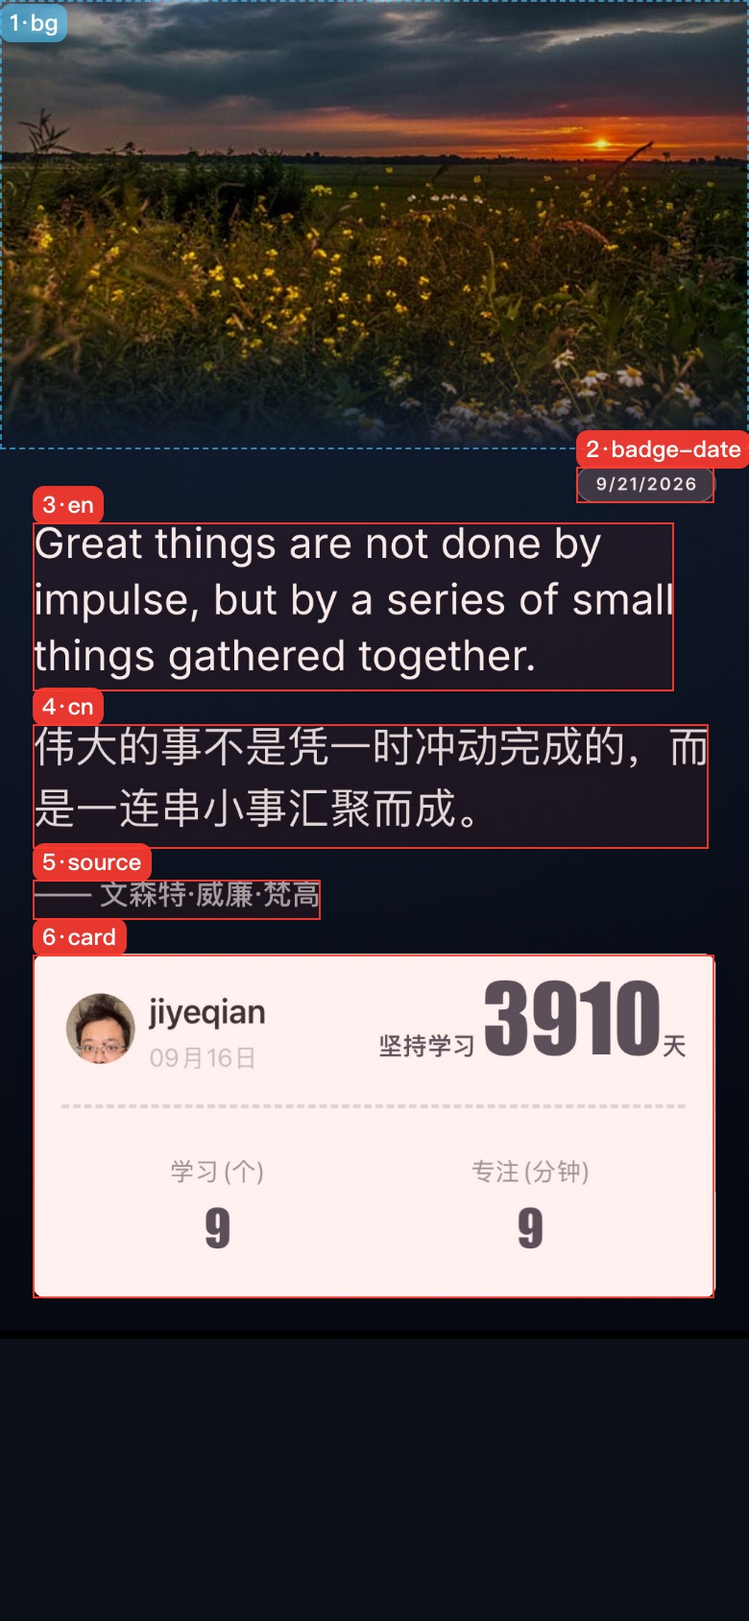
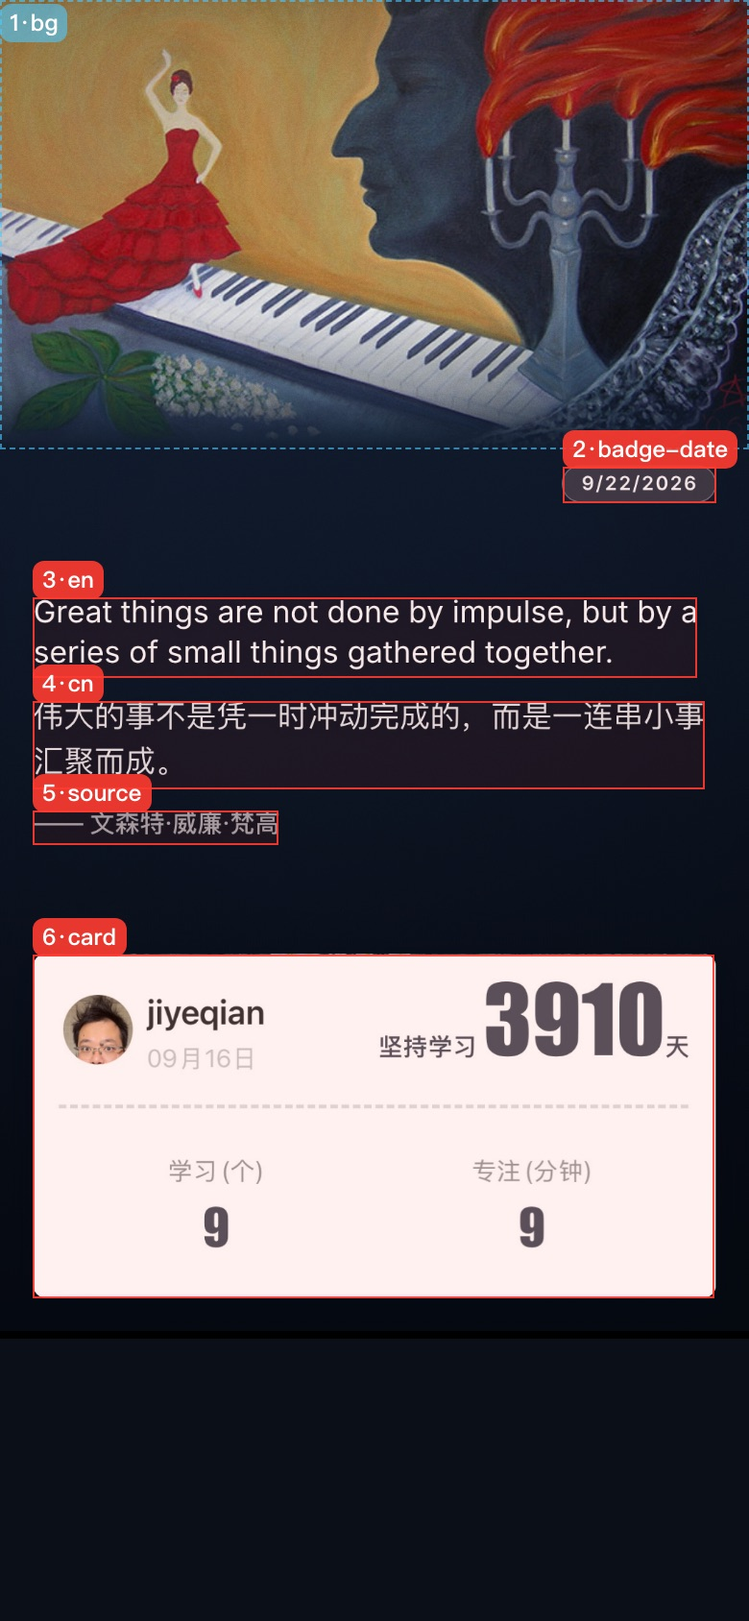
feat(ui): 字号基准定为 44/44/36/28，日期胶囊放大上限提到 3 倍
用户要求：3/4 区以 44 为设计基准固定下来（进入应用即此大小，除非溢出活动区才缩小）、
其余区按比例给出定值、2 区的放大倍率太低要「提高 1 倍」。三处澄清后定为：
3/4 区 44、5 区 36、2 区 28（直接给定值，不再按比例推）；2 区上限 3 倍（其余区仍 1.6）；
胶囊放大后整体变大、句子区跟着下移。

实现：

- 基准字号 SZ_EN/SZ_CN 55.2 → 44、SZ_SOURCE 38.1 → 36、SZ_DATE 27.5 → 28。
  保底语义不动：base = 1 才是设计基准，只有整块装不下活动区时才等比缩小（用户再次强调
  「除非溢出区域才考虑缩小字体」）。实测今天的句子在新基准下 base = 1，正是「进入即是 44」。
- **放大上限从「全体共用一个常量」改成按区不同**：新增 ZOOM_MAX_BY = { 'badge-date': 3 }
  与 zoomMaxOf(id)，把钳制与「已到最大」提示都收敛过去。原来 applyZoom 里两处直接引
  ZOOM_MAX —— 不改的话日期放到 1.6 就提示「已放到最大」，等于功能没开。
  顺手把 applyZoom 提到模块作用域（它本来就只碰模块状态），这样 __ds.setZoom 能复用
  **同一条钳制路径**，回归不必在几百像素高的测试视口里反复拖动去累积倍率。
- 日期胶囊**整体随缩放等比变大**：h 由固定 DATE_H 改成 DATE_H × dateScale（宽 / 字号 /
  字距 / 内边距 / 圆角本来就是比例式，绘制侧一字未改）。胶囊变高会把 chrome 推大 →
  活动区下移并变矮，极端时句子被保底略缩 —— 这是用户在「胶囊压句子」与「句子区下移」
  之间明确选的后者：胶囊永不压句子。
  实测（390×844）：2 区 ×3 时胶囊 [811,672,221,52] → [368,606,664,156]，活动区
  {top:752,h:576} → {790,538}（正好落在画布 28% 下限），顶图 648 → 582，句子 4 行仍装得下、
  base 仍为 1；默认态 band 与顶图完全没变（752/576、648），只有字号变了。

回归（136 条断言全绿、无 console error，parse-check 50 passed）：

- 字号断言按新基准逐一核对（en/cn 44、source 36、日期 28），短句 base = 1 且正好等于基准
- 新增：上限按区不同（2 区 3 / 3/4/5 区 1.6）；放到超上限被截在 3 且不牵动其它区；
  到上限提示「已放到最大」；胶囊宽与高都长了 3 倍（高度不再固定）；活动区随胶囊下移并变矮；
  2 区放大时短句字号一点不动；3/4/5 放到超上限仍截在 1.6（2 区仍是 3，证明两组互不干扰）；
  极端（2 区 ×3 + 长句）句子保底略缩但仍不越过信息卡
- **改写一条旧口径的假绿断言**：原「删掉出处后字号自动放大」只在当天句子恰好触发保底时
  才成立（本轮改成固定 44 后 base = 1，它立刻暴露为失败）。按现行语义改成
  「base 为 1 时字号不动，否则只可能回升、绝不变小」，并顺带说明 2026-09-22 起不再自适应放大。
  「2 区独立」那条也一并改成「未触发保底时句子字号不动 + 胶囊变大时活动区确实下移」。
[…]

diff --git a/app/ui-check.js b/app/ui-check.js
@@ -17,8 +17,10 @@
         （窗口内清晰、窗外是这张图压暗 62% 的其余部分、窗口是圆角矩形）；
         没有任何描边 / 虚线（源码里不再有 drawEditFrame）；点窗口 = 换同一张、点窗外 = 完成；
         退出后弹层收起、海报没有位移
-    12) 文字字号：进入即按固定设计基准显示（短句 base=1、字号正好 55.2/38.1/27.5，不再自适应放大）；
+    12) 文字字号：进入即按固定设计基准显示（短句 base=1、字号正好 44/44/36/28，不再自适应放大）；
         2/3/4/5 各区一份交互变换，滑句子区 3/4/5 联动、滑日期只改日期；超长句整块等比缩小保底
+    13) 缩放上限按区不同：2 区（日期）3 倍、3/4/5 区 1.6 倍；胶囊（含高度）随字号等比变大、
+        活动区随之下移（短句字号不受影响）；到上限提示「已放到最大」
 
    跑法：先 node server.js（8787），再
      NODE_PATH=<node workspace>/node_modules node app/ui-check.js  */
@@ -406,12 +408,18 @@ function ok(label, cond, extra) {
   ok('隐藏后信息卡位置不变（贴底）', JSON.stringify(box(d, 'card')) === JSON.stringify(cb));
   await shot(p, 's2-hide-date');
 
-  /* 删掉一个元素后，剩下的内容自动放大补满中部区域 */
+  /* 删掉一个元素后**不会**自动放大填满中部区域（2026-09-22 起不再自适应放大）：
+     base 已经是 1 时字号纹丝不动；只有当天句子本来就被保底缩小时，空出的高度才让 base 回升。
+     旧断言写的是「字号自动放大」—— 那是老口径，且只在当天恰好触发保底时才碰巧成立。 */
   const fontBefore = d.items.find((it) => it.id === 'en').font;
+  const baseBefore = d.text.base;
   await tap(p, 'source', 0, true);
   d = await info(p);
   const fontAfter = d.items.find((it) => it.id === 'en').font;
-  ok('删掉出处后字号自动放大', fontAfter > fontBefore, `${fontBefore} → ${fontAfter}`);
+  ok('删掉出处后不再「自动放大填满」：base 为 1 时字号不动，否则只可能回升（绝不变小）',
+    fontAfter >= fontBefore - 0.01 && (baseBefore < 1 || Math.abs(fontAfter - fontBefore) < 0.01) &&
+    fontAfter <= 44 + 0.6,
+    `${fontBefore} → ${fontAfter}｜base ${baseBefore} → ${d.text.base}`);
 
   for (const id of ['en', 'cn']) {
     await tap(p, id, 0, true);
@@ -433,13 +441,13 @@ function ok(label, cond, extra) {
   const fontOf = (x) => fontAt(x, 'en');
   const f0 = fontOf(d);
 
-  /* 设计基准字号（2026-09-22 由用户定）：en/cn 55.2、source 38.1、日期 27.5；
+  /* 设计基准字号（2026-09-22 第二次由用户定值）：en/cn 44、source 36、日期 28；
      实际字号 = 设计基准 × 保底 base × 该区交互值 —— 今天的长句会被保底缩小，比例仍精确 */
   ok('字号 = 设计基准 × 保底 base（四个区逐一核对）',
-    Math.abs(fontAt(d, 'en') - 55.2 * d.text.base) < 0.6 &&
-    Math.abs(fontAt(d, 'cn') - 55.2 * d.text.base) < 0.6 &&
-    Math.abs(fontAt(d, 'source') - 38.1 * d.text.base) < 0.6 &&
-    Math.abs(fontAt(d, 'badge-date') - 27.5 * d.text.fx['badge-date']) < 0.6,
+    Math.abs(fontAt(d, 'en') - 44 * d.text.base) < 0.6 &&
+    Math.abs(fontAt(d, 'cn') - 44 * d.text.base) < 0.6 &&
+    Math.abs(fontAt(d, 'source') - 36 * d.text.base) < 0.6 &&
+    Math.abs(fontAt(d, 'badge-date') - 28 * d.text.fx['badge-date']) < 0.6,
     `en ${fontAt(d, 'en')}｜cn ${fontAt(d, 'cn')}｜source ${fontAt(d, 'source')}｜日期 ${fontAt(d, 'badge-date')}｜base ${d.text.base}`);
   ok('每个文字区各有一份交互变换状态（架构：以后加移动就在同一对象里补 dx/dy）',
     ['badge-date', 'en', 'cn', 'source'].every((k) => d.text.fx[k] === 1),
@@ -447,10 +455,11 @@ function ok(label, cond, extra) {
 
   /* 短句：base 回到 1，字号正好等于设计基准（与线上当天的句子无关，确定可测） */
   const shortD = await withContent(p, { en: 'Hi.', cn: '你好。', source: '—— 测试' });
-  ok('短句时不再自动放大（base = 1、字号就是设计基准，日期大一号）',
-    shortD.text.base === 1 && Math.abs(fontAt(shortD, 'en') - 55.2) < 0.6 &&
-    Math.abs(fontAt(shortD, 'source') - 38.1) < 0.6 && Math.abs(fontAt(shortD, 'badge-date') - 27.5) < 0.6,
-    `base=${shortD.text.base}｜en ${fontAt(shortD, 'en')}｜source ${fontAt(shortD, 'source')}｜日期 ${fontAt(shortD, 'badge-date')}`);
+  ok('短句时不再自动放大（base = 1、字号就是设计基准 44 / 44 / 36 / 28）',
+    shortD.text.base === 1 && Math.abs(fontAt(shortD, 'en') - 44) < 0.6 &&
+    Math.abs(fontAt(shortD, 'cn') - 44) < 0.6 &&
+    Math.abs(fontAt(shortD, 'source') - 36) < 0.6 && Math.abs(fontAt(shortD, 'badge-date') - 28) < 0.6,
+    `base=${shortD.text.base}｜en ${fontAt(shortD, 'en')}｜cn ${fontAt(shortD, 'cn')}｜source ${fontAt(shortD, 'source')}｜日期 ${fontAt(shortD, 'badge-date')}`);
   await p.reload({ waitUntil: 'load' });
   await p.waitForFunction(() => window.__ds && window.__ds.state.layout);
   d = await info(p);
@@ -480,6 +489,68 @@ function ok(label, cond, extra) {
     fontAt(d, 'badge-date') > dateF1 && d.text.fx['badge-date'] > 1 &&
     fontAt(d, 'en') === senF.en && fontAt(d, 'cn') === senF.cn && fontAt(d, 'source') === senF.src,
     `日期 ${dateF1} → ${fontAt(d, 'badge-date')}｜en ${senF.en} → ${fontAt(d, 'en')}`);
+
+  /* ---------------- 缩放上限按区不同：2 区 3 倍、3/4/5 区 1.6 倍（2026-09-22） ----------------
+     下面用 `__ds.setZoom` 驱动：它调用的就是手势那条 applyZoom（同一条钳制路径），
+     只是省掉「在几百像素高的测试视口里反复拖动去累积倍率」——真手势一次最多 +0.2~0.3 倍。 */
+  await p.reload({ waitUntil: 'load' });
+  await p.waitForFunction(() => window.__ds && window.__ds.state.layout);
+  const caps = await p.evaluate(() => ({
+    date: window.__ds.zoomMax('badge-date'), en: window.__ds.zoomMax('en'), source: window.__ds.zoomMax('source'),
+  }));
+  ok('缩放上限按区不同：2 区 3 倍、3/4/5 区 1.6 倍', caps.date === 3 && caps.en === 1.6 && caps.source === 1.6,
+    JSON.stringify(caps));
+
+  /* 换成短句，让保底倍率恒为 1 —— 这样「句子字号动没动」才是干净的信号 */
+  const short2 = await withContent(p, { en: 'Hi.', cn: '你好。', source: '—— 测试' });
+  const b0 = {
+    box: box(short2, 'badge-date'),
+    band: Object.assign({}, short2.text.band),
+    font: { en: fontAt(short2, 'en'), cn: fontAt(short2, 'cn'), src: fontAt(short2, 'source') },
+  };
+  await p.evaluate(() => window.__ds.setZoom('badge-date', 9));       /* 远超上限 → 应被截在 3 */
+  await p.waitForTimeout(460);
+  const d3 = await info(p);
+  const b3 = { box: box(d3, 'badge-date'), band: Object.assign({}, d3.text.band) };
+  ok('2 区放到超上限被截在 3 倍（且不牵动 3/4/5 区）',
+    d3.text.fx['badge-date'] === 3 && d3.text.fx.en === 1 && d3.text.fx.cn === 1 && d3.text.fx.source === 1,
+    `fx ${JSON.stringify(d3.text.fx)}`);
+  ok('2 区到上限时提示「已放到最大」',
+    await p.evaluate(() => document.getElementById('toast').textContent) === '字号已放到最大',
+    await p.evaluate(() => document.getElementById('toast').textContent));
+  ok('胶囊整体等比变大：宽与高都长了 3 倍（高度不再固定）',
+    Math.abs(b3.box[3] / b0.box[3] - 3) < 0.06 && Math.abs(b3.box[2] / b0.box[2] - 3) < 0.06,
+    `胶囊 [${b0.box.map(Math.round)}] → [${b3.box.map(Math.round)}]`);
+  ok('活动区随胶囊下移并变矮（句子在更矮的区域里重新居中）',
+    b3.band.top > b0.band.top + 20 && b3.band.h < b0.band.h - 20,
+    `活动区 ${JSON.stringify(b0.band)} → ${JSON.stringify(b3.band)}`);
+  ok('2 区放大时短句字号一点不动（base 仍为 1，只有位置重新居中）',
+    d3.text.base === 1 && fontAt(d3, 'en') === b0.font.en &&
+    fontAt(d3, 'cn') === b0.font.cn && fontAt(d3, 'source') === b0.font.src,
+    `base ${d3.text.base}｜en ${b0.font.en} → ${fontAt(d3, 'en')}`);
+  await shot(p, 's14-date-zoom-3x');
+
+  /* 极端：2 区 ×3 的同时塞长句 → 活动区被压到下限，句子被保底略微缩小（用户已确认接受） */
+  const extreme = await withContent(p, {
+    en: 'This is a fairly long sentence used to check the fallback shrink when the date badge is huge.'.repeat(2),
+    cn: '这是一句用来验证「日期放很大时句子被保底缩小」的较长中文句子。'.repeat(2),
+  });
+  ok('极端情况：2 区 ×3 + 长句 → 句子保底略缩、活动区变矮，但仍不越过信息卡',
+    extreme.text.base < 1 && extreme.text.band.h < b0.band.h - 20 &&
+    box(extreme, 'source')[1] + box(extreme, 'source')[3] <= box(extreme, 'card')[1],
+    `base ${extreme.text.base}｜活动区 h ${Math.round(extreme.text.band.h)}（默认 ${Math.round(b0.band.h)}）`);
+
+  /* 3/4/5 仍被 1.6 截住（同一时刻 2 区仍是 3 倍，证明两组互不干扰） */
+  await p.evaluate(() => window.__ds.setZoom('en', 9));
+  await p.waitForTimeout(460);
+  const enCap = await info(p);
+  ok('3/4/5 放到超上限被截在 1.6 倍（2 区不受影响）',
+    enCap.text.fx.en === 1.6 && enCap.text.fx.cn === 1.6 && enCap.text.fx.source === 1.6 &&
+    enCap.text.fx['badge-date'] === 3,
+    JSON.stringify(enCap.text.fx));
+  await p.reload({ waitUntil: 'load' });
+  await p.waitForFunction(() => window.__ds && window.__ds.state.layout);
+  d = await info(p);
 
   /* 缩到最小也不能压到卡片 */
   await dragY(p, 'en', 900);

diff --git a/docs/标注通道-使用手册.md b/docs/标注通道-使用手册.md
@@ -100,7 +100,8 @@ NODE_PATH=~/.workbuddy/binaries/node/workspace/node_modules \
 
 **① 标准版（手机视口）** —— 手册主图。标准版只有 6 个可标注元素，自上而下编号 1–6：
 `bg / badge-date / en / cn / source / card`。顶部图片**按宽度铺满、超出 648px 的部分裁掉**；
-`en / cn / source` 作为一个整体在中部区域里**垂直居中、并自动放大到几乎占满**：
+`en / cn / source` 作为一个整体在中部区域里**垂直居中**，字号按**固定设计基准**显示
+（不再自动放大铺满，只有整块装不下时才等比缩小保底）：
 
 <img src="annot-guide.jpg" width="380" alt="标准版编号标注图">
 
@@ -129,7 +130,7 @@ NODE_PATH=~/.workbuddy/binaries/node/workspace/node_modules \
               "adaptive": false, "safe": { "top": 0, "bottom": 0 } },
   "items": [
     { "i": 4, "id": "cn", "label": "中文句",
-      "box": [48, 1044, 935, 161.2], "font": 55.2,
+      "box": [48, 1011, 968, 129.4], "font": 44,
       "color": "rgba(255,255,255,0.88)", "text": "伟大的事不是凭一时冲动完成的…", "kind": "item" }
   ],
   "gaps": [
@@ -162,13 +163,13 @@ NODE_PATH=~/.workbuddy/binaries/node/workspace/node_modules \
 
 | 字段 | 含义 |
 | --- | --- |
-| `text.fx` | **2/3/4/5 各区自己的交互倍率**（1 = 设计基准字号；`badge-date` / `en` / `cn` / `source`）。上滑放大、下滑缩小，范围 0.6–1.6；3/4/5 联动、2 区独立 |
+| `text.fx` | **2/3/4/5 各区自己的交互倍率**（1 = 设计基准字号；`badge-date` / `en` / `cn` / `source`）。上滑放大、下滑缩小：下限 0.6，**上限 2 区 3 倍、3/4/5 区 1.6 倍**；3/4/5 联动、2 区独立 |
 | `text.base` | **保底倍率**：只有整块装不下活动区时才 < 1（整块等比缩小，保证不压到信息卡）；短内容恒为 1 |
 | `text.x` | 正文左基线（标准版 48；长版 84） |
-| `text.band` | 中部活动区 `{ top, h }` |
+| `text.band` | 中部活动区 `{ top, h }`（2 区放大时胶囊变高，活动区整体下移并变矮） |
 
 > **实际字号 = 设计基准 × `text.base` × 该区 `text.fx`**。设计基准（标准版）：
-> 3/4 区 55.2、5 区 38.1、2 区（日期胶囊）27.5 —— 这是「进入应用即显示」的固定值，
+> 3/4 区 44、5 区 36、2 区（日期胶囊）28 —— 这是「进入应用即显示」的固定值，
 > 不再随句子长短自动放大或缩小。
 
 `bg` 是顶部图片的**实际绘制结果**（`clipped: true` = 图片被裁掉了溢出部分，
@@ -244,10 +245,11 @@ NODE_PATH=~/.workbuddy/binaries/node/workspace/node_modules \
 | `gap-text-panel` | 文字块 → 单词卡 | 长版 |
 | `gap-panel-card` | 单词卡 → 信息卡 | 长版 |
 
-> **中部文字的字号是固定设计基准**（2026-09-22 起）：3/4 区 55.2、5 区 38.1、2 区日期 27.5 ——
+> **中部文字的字号是固定设计基准**（2026-09-22 起）：3/4 区 44、5 区 36、2 区日期 28 ——
 > 进入就按这个显示，**不再自动放大铺满**，所以「太空 / 太挤」在这块是正常且每天的观感一致；
 > 短句不会被撑大，长句也只在整块装不下时才整块等比缩小（`text.base < 1`）。
-> 想调就自己上下滑动（见 `text.fx`），或者直接报「3 区字号 55.2 → 50」这类具体数字。
+> 想调就自己上下滑动（见 `text.fx`）：**2 区最多能放到 3 倍（胶囊整体等比变大，
+> 活动区会随之下移）、3/4/5 区最多 1.6 倍**；或者直接报「3 区字号 44 → 40」这类具体数字。
 
 ---
 
@@ -256,11 +258,11 @@ NODE_PATH=~/.workbuddy/binaries/node/workspace/node_modules \
 ### ✅ 我一次就能改对的句式
 
 - 「**1 号** `bg` 太高了，648 → 560」（顶部图片区高度）
-- 「**2** 日期胶囊小一点，25 → 22」
+- 「**2** 日期胶囊小一点，28 → 24」
 - 「`band-h` 再大点，576 → 620」（中部活动区高度）
 - 「`margin-x` 48 → 36」（正文与卡片一起收窄）
 - 「**6** `card` 三边别都是 48，底边留 80」
-- 「中部整体再大一点」→ 我调默认的设计基准字号 `SZ_EN` / `SZ_CN` / `SZ_SOURCE`
+- 「中部整体再大一点」→ 我调默认的设计基准字号 `SZ_EN` / `SZ_CN` / `SZ_SOURCE`（日期是 `SZ_DATE`）
 - 不想给数字也行：「**5** 小了」—— 我先读 JSON 确认当前值，给一版再 diff 给你看
 
 ### 这些事你自己动手更快（界面上已经没有按钮了，全靠手势）
@@ -268,7 +270,7 @@ NODE_PATH=~/.workbuddy/binaries/node/workspace/node_modules \
 | 想要的效果 | 你自己怎么操作 |
 | --- | --- |
 | 删掉英文 / 中文 / 出处 / 日期某一块 | **双击它**；剩下的内容**不会自动放大**，只是重新居中（若原本在被保底缩小，删掉后可能回到设计基准） |
-| 某个文字区大一点 / 小一点 | 在那一区上**上下拖动**（上滑放大、下滑缩小，改的是该区的 `text.fx`）；**3/4/5 联动、2 区独立**；刷新或下拉更新回到设计基准 |
+| 某个文字区大一点 / 小一点 | 在那一区上**上下拖动**（上滑放大、下滑缩小，改的是该区的 `text.fx`）；**3/4/5 联动、2 区独立**；**2 区最多 3 倍（胶囊整体变大）、3/4/5 区最多 1.6 倍**；刷新或下拉更新回到设计基准 |
 | 听一遍今天的句子 | **单击英文句**（会等 300ms 确认不是双击）；**只有英文句会发音，中文句 / 出处的单击不发音** |
 | 停止朗读 | **点那块波形层**（播放期它升在英文句上，是唯一能点的东西；播完会自己收起） |
 | 看昨天的存档 / 回到今天 | **单击日期胶囊**，来回切 |
@@ -332,7 +334,7 @@ diff inspect-guide.json → inspect-long.json
 ~ bottom-pad  信息卡 → 海报底  48px → 84px
 ```
 
-注意 `字号` 那一列：标准版文字区用的是**新的设计基准**（3/4 区 55.2、5 区 38.1、2 区日期 27.5），
+注意 `字号` 那一列：标准版文字区用的是**新的设计基准**（3/4 区 44、5 区 36、2 区日期 28），
 长版仍是旧基准（42 / 29 / 25）—— 「字体改了没有、改了多少」在 diff 里一眼可见。
 
 ---

diff --git a/app/README.md b/app/README.md
@@ -101,7 +101,7 @@ PORT=3000 node server.js  # 自定义端口
 | --- | --- | --- |
 | 画布 | **恒 1080×1920**（设计坐标恒 1080 基准；`?fit=device` 才按设备比例） | 按内容长高（下限 = 画布高 1920） |
 | 版面 | 三段式：顶部图片 → 句子 → 信息卡 | 文字块（含大标题 / 分隔线）→ 单词卡 → 信息卡 |
-| 文字字号 | **固定设计基准**（3/4 区 55.2、5 区 38.1、2 区日期 27.5）；仅在整块装不下时等比缩小保底 | 旧基准字号（42 / 29 / 25 起），流式向下排 |
+| 文字字号 | **固定设计基准**（3/4 区 44、5 区 36、2 区日期 28）；仅在整块装不下时等比缩小保底 | 旧基准字号（42 / 29 / 25 起），流式向下排 |
 | 左右边距 | 正文与信息卡统一 48px | 文字安全边距 84px |
 
 ### 标准版（默认）
@@ -122,7 +122,7 @@ PORT=3000 node server.js  # 自定义端口
 
 2. **中部句子区**（648 → 信息卡顶，共 728px）—— 日期胶囊固定在这块顶部靠右；
    英文句 + 中文句 + 出处作为一个整体在余下的活动区里**垂直居中**，
-   字号是**固定设计基准**（3/4 区 55.2、5 区 38.1、2 区日期 27.5，见「字号与交互缩放」）：
+   字号是**固定设计基准**（3/4 区 44、5 区 36、2 区日期 28，见「字号与交互缩放」）：
    短句不再被放大铺满，只在整块装不下时整块等比缩小保底，`margin-x` 与信息卡统一 48px。
 3. **信息卡** —— 距左 / 右 / 底**三边等距 48px**，高 496px 固定。
 
@@ -142,21 +142,24 @@ PORT=3000 node server.js  # 自定义端口
    取不接触画布边缘的最大白块）；标准版只借用识别结果决定「从用户图里抠哪一块」，
    卡片自身位置与尺寸固定
 
-### 字号与交互缩放（2026-09-22 重定）
+### 字号与交互缩放（2026-09-22 第二次重定）
 
-- **字号是固定设计基准，不再自适应放大**：3/4 区（英文 / 中文）55.2、5 区（出处）38.1、
-  2 区（日期胶囊）27.5 —— 推导见 `SZ_*` 常量的注释（用户以「当天显示大小」为基准各调一号）。
+- **字号是固定设计基准，不再自适应放大**：3/4 区（英文 / 中文）44、5 区（出处）36、
+  2 区（日期胶囊）28 —— 用户直接给定值，见 `SZ_*` 常量注释。
   进入应用就是这个字号，短句不再被放大铺满；**只有整块装不下活动区时才整块等比缩小保底**
   （`textFit()` 给出 `base`，同样内容恒等 —— 短句 `base = 1`）
 - **每个文字区一份交互变换**：`state.fx[id] = { scale }`（`regionFx()` 取，`defaultFx()` 复位）。
   2/3/4/5 都能上下滑动缩放；**3/4/5 一组联动、2 区独立**（`ZOOM_GROUP` 声明，
-  `applyZoom(id, z)` 按组写值），范围 0.6–1.6
+  `applyZoom(id, z)` 按组写值）。下限全体 0.6；**上限按区不同**：2 区 **3 倍**、3/4/5 区 **1.6 倍**
+  （`ZOOM_MAX_BY` + `zoomMaxOf(id)`，钳制与「已到最大」提示都走它）
 - 实际字号 = **设计基准 × `base` × 该区 `fx.scale`**。用户缩放叠在保底之上，所以
   **放大仍可主动溢出活动区**（上下同量溢出、仍然居中；下部被白卡自然遮住，日期胶囊画在最后
   所以不会被盖住）—— 因此**保底测量必须按「各区 fx 全为 1」来量**（`textFitBase()` 传
   `UNIT_FX`），否则用户一放大就被保底吃掉，滑了等于没滑
-- 日期胶囊**高度恒为 52**、不随 2 区缩放长高：它一变高就会改活动区高度、让句子被保底缩小，
-  那就破坏了「2 区独立」
+- 日期胶囊**整体随 2 区缩放等比变大**（宽 / 高 / 字号 / 字距 / 内边距 / 圆角一起长）：
+  胶囊变高会把活动区推下去并压矮（`chrome` 里含 `date.h + GAP_DATE_BAND`），
+  极端时句子被保底略缩 —— 这是用户拍板的取舍：**胶囊永不压句子**，代价是句子在更矮的
+  区域里重新居中（绘制侧本来就是比例式，只需改 `computeLayoutStandard` 里的 `h`）
 - 日期胶囊被双击删掉后，它那一行（52 + 28）会还给句子，可用高度更大（保底更不容易触发）
 - 将来要给文字区加「交互式移动」：在 `state.fx[id]` 里补 `dx/dy`，只改手势与绘制两处
 - 长版仍是流式：各段依次向下排，天生不会互相压盖，按需要长高
@@ -207,8 +210,9 @@ app/
 | 单击英文句（3 区） | **朗读**并升起波形层（等 300ms 确认不是双击）；**只有它会发音** |
 | 单击中文句 / 出处 | **不发音**（保留 300ms 判定只为双击删除） |
 | 单击日期胶囊 | **今日 ⇄ 昨日存档切换**（等 300ms 确认不是双击） |
-| 双击日期胶囊 / 英文 / 中文 / 出处 | 从海报上删掉这个元素，其余内容**自动放大**补齐（**不可逆**，刷新恢复） |
-| 在英文 / 中文 / 出处上上下拖动 | **实时缩放中部字号**：上滑放大、下滑缩小（0.6–1.6 倍，叠在自适应值上），松手保留 |
+| 双击日期胶囊 / 英文 / 中文 / 出处 | 从海报上删掉这个元素，其余内容重新居中（**不再自动放大补位**；**不可逆**，刷新恢复） |
+| 在英文 / 中文 / 出处上上下拖动 | **实时缩放中部字号**：上滑放大、下滑缩小（0.6–1.6 倍，叠在保底值上），松手保留 |
+| 在日期胶囊上上下拖动 | 只缩放日期：**0.6–3 倍**（2 区上限比句子区高），胶囊整体（含高度）跟着变大 |
 | 非句子区（图片 / 卡片 / 空白）向下拉 ≥ 90px | **回到初始状态**（等同重启 App），过阈值时提示「松手即更新」 |
 
 **换完图会自动进入「手动调整模式」**（换顶部图片或信息卡之后立刻进）。此时上面那一整套手势

diff --git a/CODEBUDDY.md b/CODEBUDDY.md
@@ -63,7 +63,7 @@ NODE_PATH=~/.workbuddy/binaries/node/workspace/node_modules \
   | 单击中文句 / 出处 | **不再发音**（保留 300ms 判定只为双击删除） |
   | 单击日期胶囊 | 今日 ⇄ 昨日存档切换（等 300ms 确认不是双击） |
   | 双击日期 / 英文 / 中文 / 出处 | 从海报删除该元素（不可逆，刷新恢复） |
-  | 在文字区（2 日期 / 3 英文 / 4 中文 / 5 出处）上上下拖动 | 实时缩放该区字号（0.6–1.6 倍；**3/4/5 联动、2 区独立**） |
+  | 在文字区（2 日期 / 3 英文 / 4 中文 / 5 出处）上上下拖动 | 实时缩放该区字号（下限 0.6；**2 区上限 3 倍、3/4/5 区 1.6 倍**；**3/4/5 联动、2 区独立**） |
   | 非句子区向下拉 ≥90px | 回到初始状态（等同重启 App） |
 
   「同一元素既有单击又有双击」的四类元素（句子三个 + 日期）走**单槽 `pendingTap` + 300ms 确认**；
@@ -147,8 +147,8 @@ NODE_PATH=~/.workbuddy/binaries/node/workspace/node_modules \
   压缩优先级：图片区 ≤ 画布 45%、卡片 ≤ 28%、句子区 ≥ 28%），回归里有一条断言守着它。
   > 2026-09-22 真机结论：满屏自适应**不够美观** —— 版面在不同屏幕上差异明显，且 iOS 启动
   > 瞬间视口高度会先大后小，版面会跳一次。用户拍板改回固定 1080×1920、框架留作后用。
-- **字号是固定设计基准，不再自适应放大**（2026-09-22 用户重定）：标准版 3/4 区 55.2、
-  5 区 38.1、2 区（日期胶囊）27.5（推导见 `SZ_*` 常量注释）—— 进入应用就是这个字号，
+- **字号是固定设计基准，不再自适应放大**（2026-09-22 用户重定）：标准版 3/4 区 44、
+  5 区 36、2 区（日期胶囊）28（用户直接给定值，见 `SZ_*` 常量注释）—— 进入应用就是这个字号，
   短句不再被放大铺满，**只有整块装不下活动区时才整块等比缩小保底**（`base < 1`，
   见 `textFit()`；比率与内容无关，短句恒为 1）；正文与信息卡统一 48px 边距（设计值）。
 - **每个文字区一份交互变换状态** `state.fx[id] = { scale }`（`regionFx()` 取值，找不到给稳定
@@ -156,8 +156,15 @@ NODE_PATH=~/.workbuddy/binaries/node/workspace/node_modules \
   `applyZoom(id, z)` 按组写值。用户缩放叠在保底之上（`base × fx[id].scale`），所以**放大仍可
   溢出活动区**（下部由信息卡自然遮住）—— 保底测量必须按「fx 全为 1」来量（`textFitBase()`
   传 `UNIT_FX`），否则用户一放大就被保底吃掉，滑了等于没滑（这是实现时必须踩准的一点）。
-- 日期胶囊高度恒为 `DATE_H`，**不随 2 区的缩放长高** —— 它一变高就会改活动区高度、
-  让句子被保底缩小，那就破坏了「2 区独立」。
+- **放大上限按区不同**（2026-09-22）：2 区（日期胶囊）可以放到 **3 倍**，3/4/5 区仍是 **1.6 倍**
+  （`ZOOM_MAX_BY` + `zoomMaxOf(id)`）。凡是钳制缩放、判「已到最大」的地方**一律走 `zoomMaxOf(id)`**，
+  直接引 `ZOOM_MAX` 会把日期的上限误判成 1.6（放到 1.6 就提示「已放到最大」）。
+  下限仍是 0.6，全体共用。缩放写入只有 `applyZoom` 一条路（手势与 `__ds.setZoom` 都走它）。
+- 日期胶囊**整体随 2 区缩放等比变大**（宽 / 高 / 字号 / 字距 / 内边距 / 圆角一起长），
+  所以胶囊底部会把 `chrome` 推大 → **活动区整体下移并变矮**，极端时句子被保底略缩
+  （2026-09-22 用户在「胶囊压句子」与「句子区下移」之间选了后者：胶囊永不压句子）。
+  绘制侧本来就是比例式（`roundRect(..., ph/2)`、基线 `py + ph/2`、左内边距 `28 * dk`），
+  改高度**只改 `computeLayoutStandard` 里那个 `h`**，不要在绘制里另做补偿。
 - 将来要给文字区加「交互式移动」：在 `state.fx[id]` 里补 `dx/dy`，只改手势与绘制两处。
 - **顶部图片按宽度铺满 + 硬裁切**：宽度定死 1080、高度按原始比例，超出顶部图片区（648px）
   的部分 `ctx.clip()` 裁掉 —— 竖图只显示最上面一段，宽图下方露底色。

diff --git a/README.md b/README.md
@@ -72,8 +72,8 @@
   **中部句子区**（日期胶囊靠右，英文 + 中文 + 出处作为一个整体居中）→
   **个人信息卡**（距左 / 右 / 底三边等距 48px）
 - 画布**恒 1080×1920（9:16）**，手机与桌面同一条路径：宽度充满、竖直居中，上下留底色块，
-  屏幕上看到的就是长按另存的那张图；文字字号是**固定设计基准**（日期 27.5、英文 / 中文 55.2、
-  出处 38.1），进入就按它显示、**不再自动放大铺满**，只有整块装不下中部区域时才整块等比缩小保底
+  屏幕上看到的就是长按另存的那张图；文字字号是**固定设计基准**（日期 28、英文 / 中文 44、
+  出处 36），进入就按它显示、**不再自动放大铺满**，只有整块装不下中部区域时才整块等比缩小保底
 - 竖直方向的「居中」指**对整块物理屏居中**：加到主屏的独立应用形态下，系统给的布局框比屏幕
   **矮一个状态栏**，所以在框里居中会整体偏上半个状态栏（照片压刘海、底部多一截黑）。
   独立形态下会按「物理屏高 − 布局框高」补一个上边距，把它拉回整屏居中 ——
@@ -102,7 +102,7 @@
 | 单击中文句 / 出处 | **不发音**（单击只为区分双击，双击仍是删除） |
 | 单击日期胶囊 | 今日 ⇄ 昨日存档切换 |
 | 双击日期 / 英文 / 中文 / 出处 | 从海报删除该元素，其余内容重新居中（**不再自动放大补位**；不可逆，刷新恢复） |
-| 在文字区（2 日期 / 3 英文 / 4 中文 / 5 出处）上上下拖动 | 实时缩放该区字号（上滑放大、下滑缩小；**3/4/5 联动、2 区独立**） |
+| 在文字区（2 日期 / 3 英文 / 4 中文 / 5 出处）上上下拖动 | 实时缩放该区字号（上滑放大、下滑缩小；**2 区能放到 3 倍、3/4/5 区到 1.6 倍**；**3/4/5 联动、2 区独立**） |
 | 非句子区向下拉 ≥90px | 回到初始状态（等同重启 App：清隐藏、缩放归位、图片复原） |
 | **换图后**：单指拖动 / 双指捏合 / 点窗口 / 点窗口外 | **弹出整屏调整层**（海报不动）—— 层里只有居中的换图区与这张图：窗口内清晰、窗口外是同一张图压暗后的其余部分（拖动 / 缩放的引导）；单指挪图、双指缩放、点窗口换同一张、点窗口外即完成（保存 / 更新 / 朗读 / 删除全部让路） |
 
